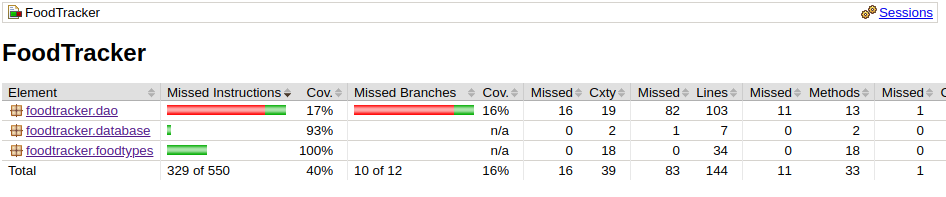
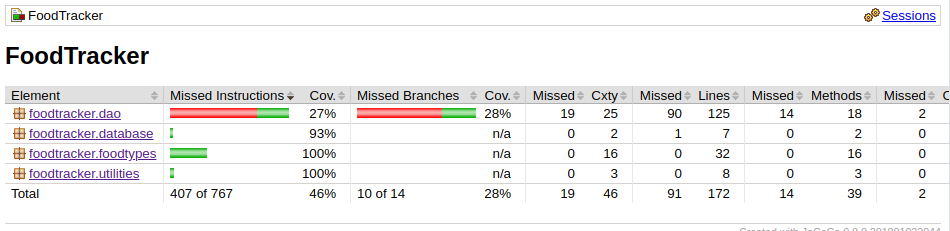
loputki tiedostot

diff --git a/dokumentaatio/testaus.md b/dokumentaatio/testaus.md
@@ -4,7 +4,7 @@ Ohjelmaa on testattu JUnitilla sekä manuaalisesti
 
 ## Testauskattavuus
 
-Käyttöliittymäkerrosta lukuunottamatta sovelluksen testauksen rivikattavuus on 40% ja haarautumakattavuus on 16%.
+Käyttöliittymäkerrosta lukuunottamatta sovelluksen testauksen rivikattavuus on 46% ja haarautumakattavuus on 28%.
 
 <img src="https://github.com/lossitomatossi/ot-harjoitustyo/blob/master/dokumentaatio/kuvat/jacoco.png" width="800">
 
@@ -13,7 +13,9 @@ Testaamatta jäänyt lukuisia tilanteita.
 
 # Sovellukseen jääneet laatuongelmat:
 
-- sovellus ei tiedosta onko ruuan määrää kuvaavalla rivillä numero
-- sovellus ei ole vielä korjannut sql-tietokannan kanssa olevaa ongelmaa päivämäärien oikean näyttämistavan kanssa
-- sovellus ei vielä tarkista ruuan tyyppiä ennen lisäämistä
-- Dao luokkien testausta ei toteutettu
+
+
+- Dao luokkien testaus ei vielä täysin valmis
+- Ruokien tyyppi testataan mutta ingredient tyyppisiä ruokia ei saa vielä lisättyä
+- Pian pilaantuvien lista päivittää vasta hedelmien lisäyksen sitä mukaan kun tietokantaan lisätään tietoa
+- Kaikkia tietokannan ruokia ei saa vielä listattua kerralla

diff --git a/dokumentaatio/kayttoohje.md b/dokumentaatio/kayttoohje.md
@@ -6,7 +6,11 @@ name varchar(50),
 foodType varchar(30),
 quantity INTEGER,
 quantityType varchar(20),
-expirationDate Date,
-dateAdded Date,
+expirationDate varchar(11),
+dateAdded varchar(11),
 opened Boolean
 );
+
+FoodTracker kertoo tietoja syötettäessä jos ruuan nimi on liian pitkä tai puuttuu, ruuan määrään ei voi syöttää muita merkkejä kuin numeroita ja tämäkin kenttä kertoo jos on tyhjä. Ruuan määrän määrittävä toggleGroup valitsee automaattisesti arvon grammoiksi, mutta ruuan tyyppi pitää valita manuualisesti. Siihen ei vielä ole tarkistajaa.
+
+Tietokannassa päivämäärät ovat kirjainyhdistelminä muodossa dd.MM.yyyy (esim 04.12.2018), pituus on 11 merkkiä jotta tietokanta on validi vuoden 9999 jälkeen, vaikkei ohjelma todennäköisesti sinne asti selviä.

diff --git a/dokumentaatio/tyoaikakirjanpito.md b/dokumentaatio/tyoaikakirjanpito.md
@@ -6,7 +6,7 @@
 | 7.11  | 3   | javaFx:n tutustuminen ja visuaalinen suunnittelu |
 | 20.11 | 2   | tappelin tietokantaan yhteydenoton kanssa tuloksetta |
 | 23.11 | 2   | jdbc fixejä ja tietokantaan lisäyksen toteutus |
-| 27.11 | 6.5   | jbdc fixejä lisää, jacoco, checkstyle, testit, lisää luokkia, arkkitehtuurikuvaus karkeasti |
-
-
-| yht   | 16.5  | projekti ok vaiheessa |
+| 27.11 | 6.5 | jbdc fixejä lisää, jacoco, checkstyle, testit, lisää luokkia, arkkitehtuurikuvaus karkeasti |
+| 3.12  | .5  | muutin tietokannan date osat varchar tyyppisiksi |
+| 4.12  | 9   | korjasin tietokantaan yhteydenoton, checkstyle korjauksia, lisää testejä, lisää luokkia, alertit kertomaan käyttäjälle jos tietokenttiä on tyhjänä |
+| yht   | 25.5  | projekti ok vaiheessa |
